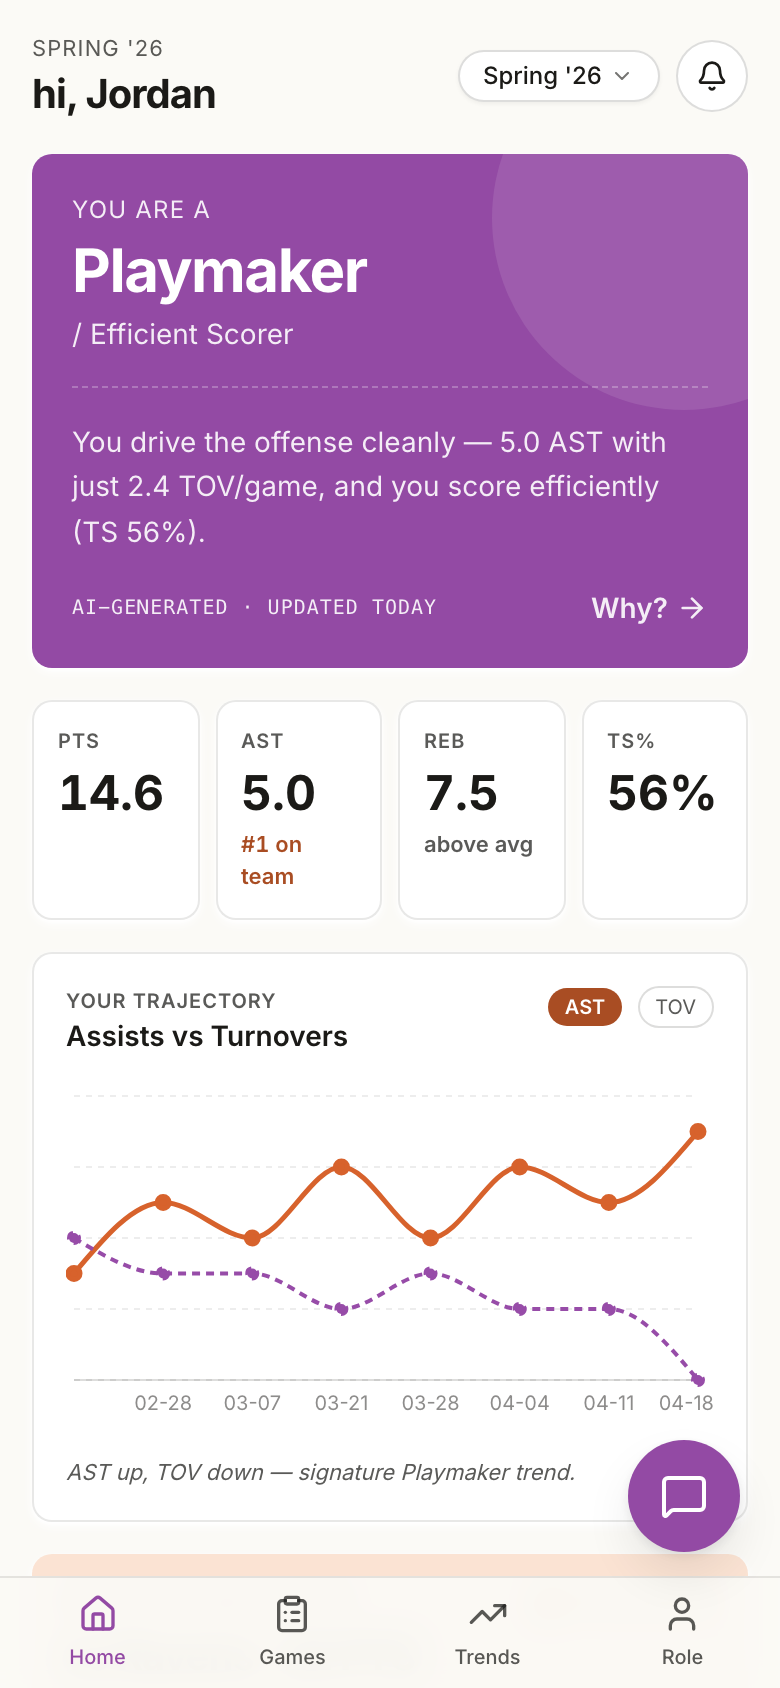
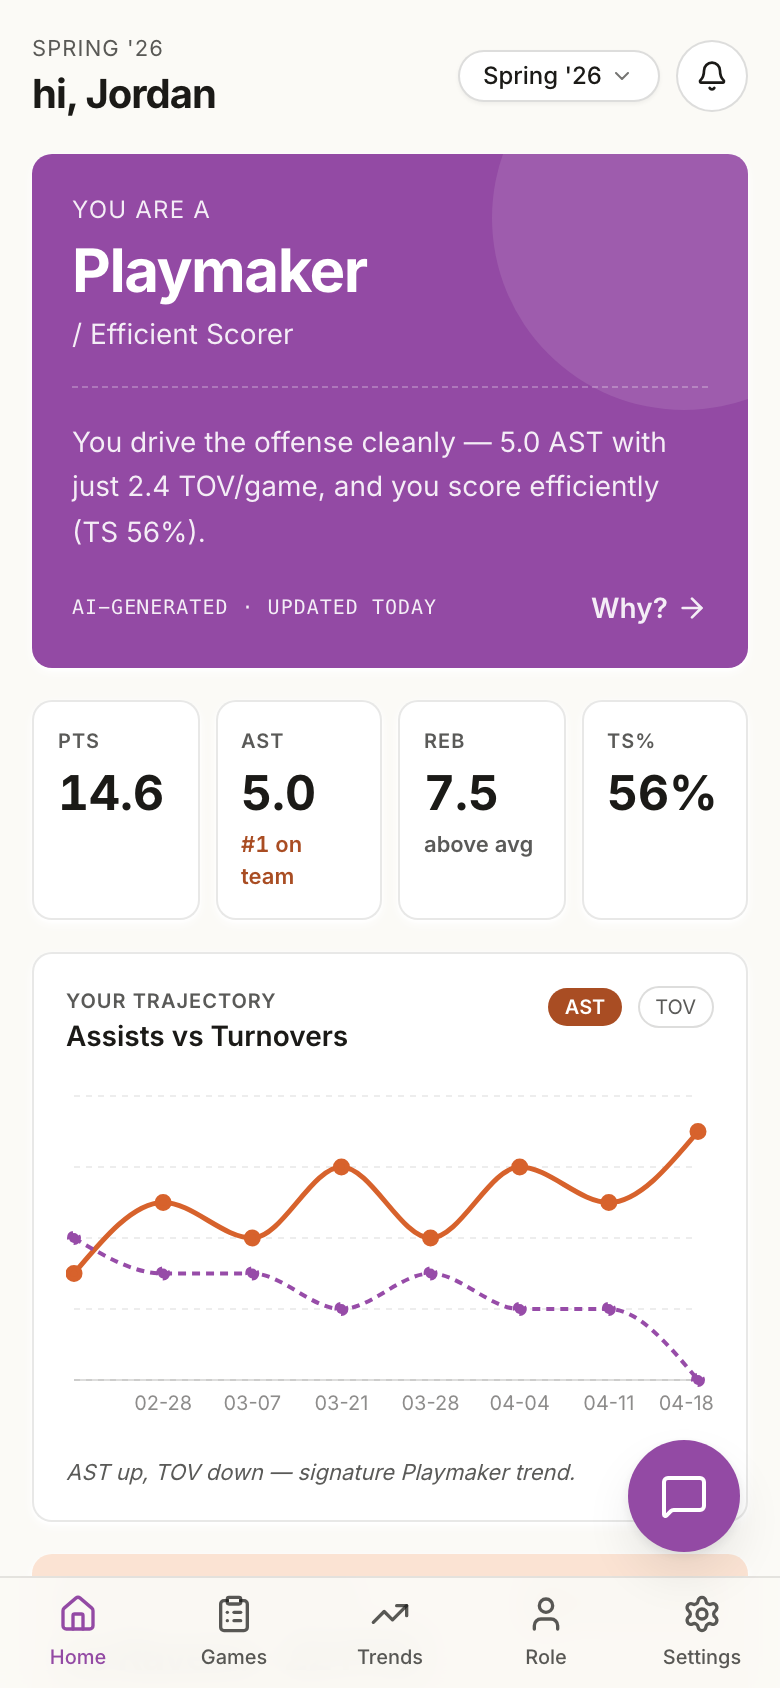
Add a Settings tab to the mobile bottom nav
Sign out lives on the Settings page, which had no link below the lg
breakpoint because the sidebar is hidden there.

diff --git a/src/components/BottomNav.tsx b/src/components/BottomNav.tsx
@@ -1,5 +1,5 @@
 import { NavLink } from 'react-router-dom';
-import { Home, ClipboardList, TrendingUp, User } from 'lucide-react';
+import { Home, ClipboardList, TrendingUp, User, Settings } from 'lucide-react';
 import { cn } from '@/lib/utils';
 
 const tabs = [
@@ -7,12 +7,13 @@ const tabs = [
   { to: '/games', label: 'Games', icon: ClipboardList, end: false },
   { to: '/trends', label: 'Trends', icon: TrendingUp, end: false },
   { to: '/archetype', label: 'Role', icon: User, end: false },
+  { to: '/settings', label: 'Settings', icon: Settings, end: false },
 ];
 
 export function BottomNav() {
   return (
     <nav className="fixed inset-x-0 bottom-0 z-40 border-t border-ink/10 bg-paper/95 backdrop-blur lg:hidden pb-safe">
-      <ul className="grid grid-cols-4">
+      <ul className="grid grid-cols-5">
         {tabs.map(({ to, label, icon: Icon, end }) => (
           <li key={to}>
             <NavLink
